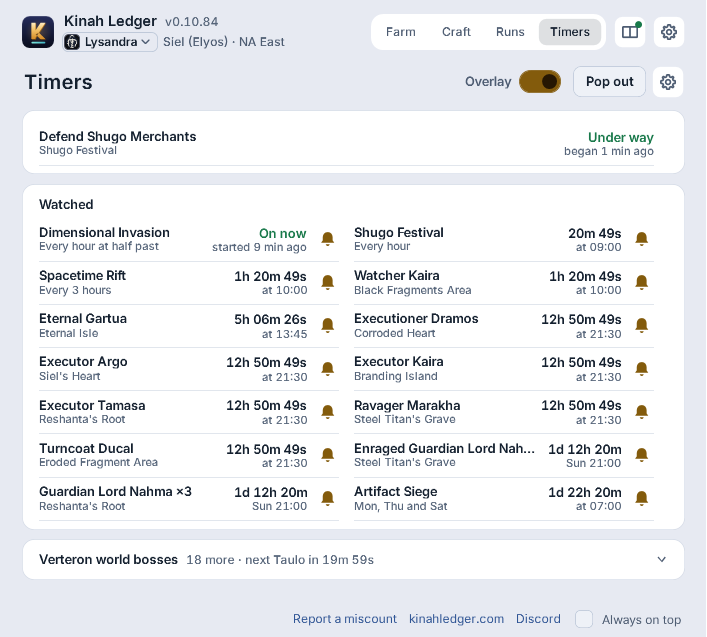
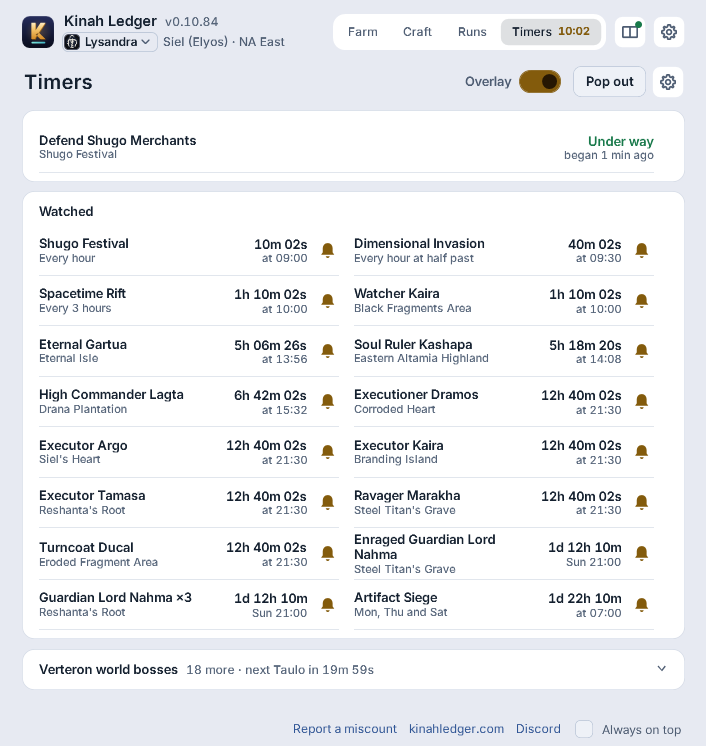
Timers page: long names wrap to a second line; Kashapa and Lagta in the renders
A boss's full name always shows: a long one (Enraged Guardian Lord Nahma)
takes a second line, and the two columns pair row by row so they stay
level. The render sample gains Soul Ruler Kashapa and High Commander
Lagta, so the Watched defaults show all three of Steven's bosses.

diff --git a/tracker/KinahLedger.Tracker/Ui/MainWindow.TimersPage.cs b/tracker/KinahLedger.Tracker/Ui/MainWindow.TimersPage.cs
@@ -146,11 +146,23 @@ public partial class MainWindow
         return g;
     }
 
-    /// <summary>Rows two to a line, each the same height, so a card never leaves a ragged gap.</summary>
-    static UniformGrid TimersGrid(IEnumerable<FrameworkElement> rows)
+    /// <summary>
+    /// Rows two to a line, the pair as tall as the taller of the two (a long name wraps to a second line), so the columns
+    /// stay level and a card never leaves a ragged gap.
+    /// </summary>
+    static Grid TimersGrid(IEnumerable<FrameworkElement> rows)
     {
-        var grid = new UniformGrid { Columns = 2 };
-        foreach (var r in rows) grid.Children.Add(r);
+        var grid = new Grid();
+        grid.ColumnDefinitions.Add(new ColumnDefinition());
+        grid.ColumnDefinitions.Add(new ColumnDefinition());
+        int n = 0;
+        foreach (var r in rows)
+        {
+            if (n % 2 == 0) grid.RowDefinitions.Add(new RowDefinition { Height = GridLength.Auto });
+            Grid.SetRow(r, n / 2); Grid.SetColumn(r, n % 2);
+            grid.Children.Add(r);
+            n++;
+        }
         return grid;
     }
 
@@ -189,12 +201,14 @@ public partial class MainWindow
 
     FrameworkElement TimerLine(string name, string sub, string big, string small, string tone, string? key)
     {
-        var g = new Grid { Height = 42, Margin = new Thickness(0, 0, 14, 2) };
+        var g = new Grid { MinHeight = 42, Margin = new Thickness(0, 4, 14, 5) };
         g.ColumnDefinitions.Add(new ColumnDefinition());
         g.ColumnDefinitions.Add(new ColumnDefinition { Width = GridLength.Auto });
         if (key != null) g.ColumnDefinitions.Add(new ColumnDefinition { Width = new GridLength(26) });
         var left = new StackPanel { VerticalAlignment = VerticalAlignment.Center };
-        left.Children.Add(QT(name, 12.5, FontWeights.SemiBold, "Ink", trim: true));
+        var nm = QT(name, 12.5, FontWeights.SemiBold, "Ink");
+        nm.TextWrapping = TextWrapping.Wrap; nm.TextTrimming = TextTrimming.None;   // a full name always shows: a long one takes a second line
+        left.Children.Add(nm);
         if (sub.Length > 0) left.Children.Add(QT(sub, 11, FontWeights.Medium, "Faint", trim: true));
         g.Children.Add(left);
         var right = new StackPanel { VerticalAlignment = VerticalAlignment.Center, Margin = new Thickness(8, 0, key != null ? 6 : 0, 0) };

diff --git a/tracker/KinahLedger.Tracker/Ui/MainWindow.Bosses.cs b/tracker/KinahLedger.Tracker/Ui/MainWindow.Bosses.cs
@@ -307,6 +307,9 @@ public partial class MainWindow
         B("Eternal Gartua", "Eternal Isle", 306.5);
         B("Silent Dartan", "Southern Altamia Highland", 312.7);
         B("Phantasm Kasia", "Garden of the Illusion God", 349.3);
+        // two of Steven's watched-by-default bosses (101023, 101024), so renders show them under Watched
+        B("Soul Ruler Kashapa", "Eastern Altamia Highland", 318.4);
+        B("High Commander Lagta", "Drana Plantation", 402.1);
         return list;
     }
 }
